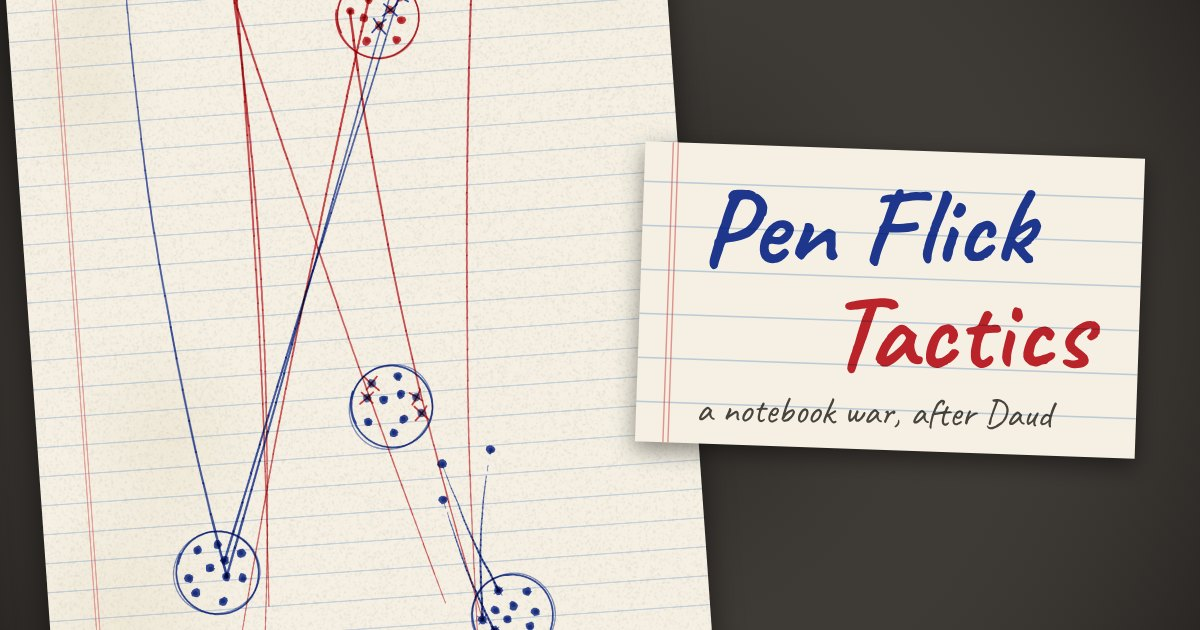
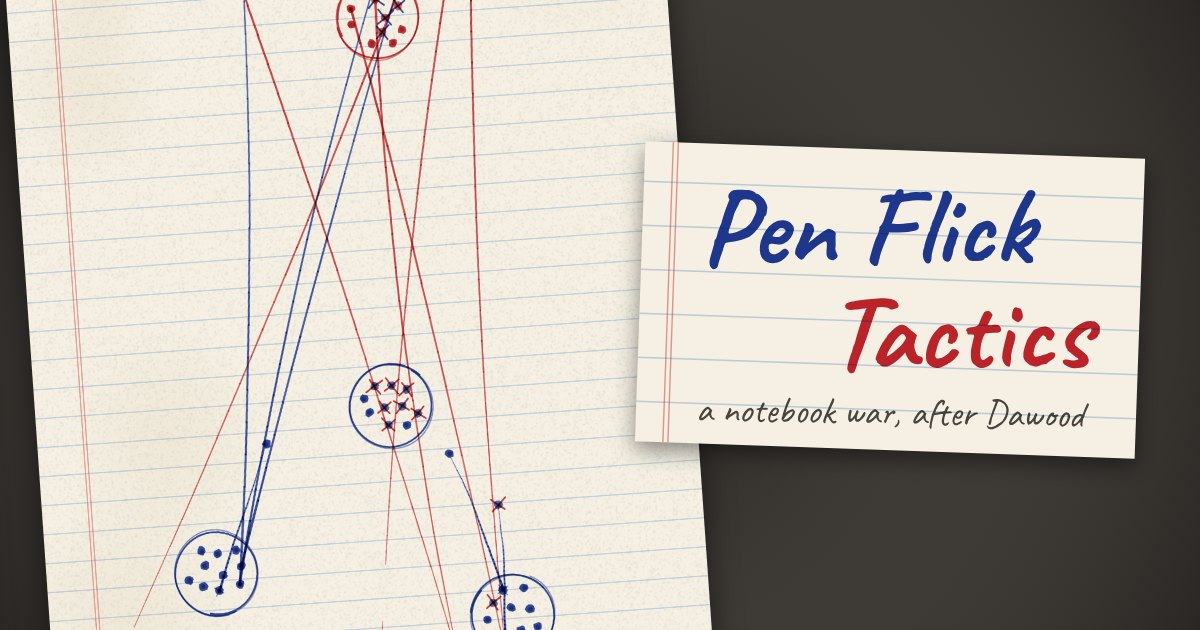
It's Dawood: fix the name everywhere, including the share card

Changed region(s): [[0.1233, 0.0, 0.4625, 1.0], [0.8633, 0.6333, 0.8942, 0.6937]]

diff --git a/src/main.ts b/src/main.ts
@@ -48,7 +48,7 @@ const cam = new Camera();
 let W = 0, H = 0, dpr = 1, dirty = true;
 
 const isBot = (p: Player) => mode.kind === "bot" && p === 1;
-const name = (p: Player) => (isBot(p) ? "Daud-bot" : INK.names[p]);
+const name = (p: Player) => (isBot(p) ? "Dawood-bot" : INK.names[p]);
 
 function save() {
   localStorage.setItem("pft:save", JSON.stringify({ s, mode } satisfies Save));
@@ -336,10 +336,10 @@ function showTitle() {
   const canResume = saved && (saved.s.phase !== "over");
   const card = sheet(`
     <h1>Pen Flick <em>Tactics</em></h1>
-    <p class="sub">a notebook war, after Daud</p>
+    <p class="sub">a notebook war, after Dawood</p>
     ${canResume ? `<button class="act" data-a="resume">↳ carry on the page</button>` : ""}
     <button class="act" data-a="pnp">↳ pass &amp; play</button>
-    <button class="act red" data-a="bot">↳ vs Daud-bot</button>
+    <button class="act red" data-a="bot">↳ vs Dawood-bot</button>
     <div class="row">${LEVELS.map((l, i) => `<button class="act small ${i === botLevel ? "on" : ""}" data-lvl="${i}">${l}</button>`).join(" · ")}</div>
     <button class="act small" data-a="how">how to play</button>
     <p class="fine">
@@ -347,7 +347,7 @@ function showTitle() {
       <button class="act small ${settings.handoff ? "on" : ""}" data-set="handoff">hand-off screen</button> ·
       <button class="act small ${!sfx.muted ? "on" : ""}" data-set="sound">sound</button>
     </p>
-    <p class="fine">rules from memory — waiting on Daud</p>`);
+    <p class="fine">rules from memory — waiting on Dawood</p>`);
   card.onclick = (e) => {
     const b = (e.target as HTMLElement).closest("button");
     if (!b) return;

diff --git a/src/rules.ts b/src/rules.ts
@@ -1,5 +1,5 @@
 // Every tunable rule lives here. Most are guesses from Burooj's memory of
-// Daud's game (2026-06-07 transcript); the ones marked ASK DAUD are open
+// Dawood's game (2026-06-07 transcript); the ones marked ASK DAWOOD are open
 // questions tracked in RULES.md / BJS-128. Change them here, not in logic.
 
 export const RULES = {
@@ -14,7 +14,7 @@ export const RULES = {
   baseRadius: 62,
   soldierRadius: 7,
   minBaseGap: 40, // clear paper between any two bases
-  minEnemyBaseGap: 180, // ASK DAUD: could you build right next to an enemy?
+  minEnemyBaseGap: 180, // ASK DAWOOD: could you build right next to an enemy?
 
   // Shoot: the soldier stays put, the line runs "almost to the end of the page".
   shootMinLen: 700,
@@ -23,13 +23,13 @@ export const RULES = {
   moveMinLen: 60,
   moveMaxLen: 380,
 
-  // ASK DAUD: did movement lines kill, or only shots? Transcript reads as both.
+  // ASK DAWOOD: did movement lines kill, or only shots? Transcript reads as both.
   moveKills: true,
-  // ASK DAUD: could you hit your own soldiers?
+  // ASK DAWOOD: could you hit your own soldiers?
   friendlyFire: false,
-  // ASK DAUD: did a shot stop at the first body? Default: a line is a line.
+  // ASK DAWOOD: did a shot stop at the first body? Default: a line is a line.
   shotPierces: true,
-  // ASK DAUD: what happened if your flick left the page? Default: soldier is lost.
+  // ASK DAWOOD: what happened if your flick left the page? Default: soldier is lost.
   offPageMoveKills: true,
 
   // How generous a hit is: ink line vs dot, in world units beyond both radii.

diff --git a/index.html b/index.html
@@ -7,7 +7,7 @@
     <meta name="apple-mobile-web-app-capable" content="yes" />
     <meta name="mobile-web-app-capable" content="yes" />
     <title>Pen Flick Tactics</title>
-    <meta name="description" content="Daud's pen-and-paper flick war, on a notebook page. Draw your bases, flick your pen, cross them out." />
+    <meta name="description" content="Dawood's pen-and-paper flick war, on a notebook page. Draw your bases, flick your pen, cross them out." />
     <link rel="icon" type="image/png" sizes="192x192" href="/icon-192.png" />
     <link rel="apple-touch-icon" href="/apple-touch-icon.png" />
     <link rel="manifest" href="/manifest.webmanifest" />
@@ -16,7 +16,7 @@
     <meta property="og:type" content="website" />
     <meta property="og:url" content="https://pen-flick-tactics.vercel.app/" />
     <meta property="og:title" content="Pen Flick Tactics" />
-    <meta property="og:description" content="Daud's pen-and-paper flick war, on a notebook page. Draw your bases, flick your pen, cross them out." />
+    <meta property="og:description" content="Dawood's pen-and-paper flick war, on a notebook page. Draw your bases, flick your pen, cross them out." />
     <meta property="og:image" content="https://pen-flick-tactics.vercel.app/og.jpg" />
     <meta property="og:image:width" content="1200" />
     <meta property="og:image:height" content="630" />

diff --git a/src/bot.ts b/src/bot.ts
@@ -1,4 +1,4 @@
-// Daud-bot: plans by previewing candidate flicks, then flicks with a human-ish hand.
+// Dawood-bot: plans by previewing candidate flicks, then flicks with a human-ish hand.
 
 import { alive, preview, type Flick, type GameState, rng } from "./game";
 import { reach, sigma } from "./flick";

diff --git a/README.md b/README.md
@@ -1,6 +1,6 @@
 # Pen Flick Tactics
 
-A digital version of Daud's pen-and-paper flick tactics game. The feel of imprecise pen flicks and the hand-drawn notebook aesthetic are core constraints. The canonical rules still need Daud's review; see [RULES.md](RULES.md) for what the prototype assumes and what to ask him.
+A digital version of Dawood's pen-and-paper flick tactics game. The feel of imprecise pen flicks and the hand-drawn notebook aesthetic are core constraints. The canonical rules still need Dawood's review; see [RULES.md](RULES.md) for what the prototype assumes and what to ask him.
 
 The Linear board is canonical for status, decisions, and work history.
 
@@ -15,7 +15,7 @@ npm run build    # static bundle in dist/
 npm run share-art -- http://localhost:5173/   # regenerate og.jpg + icons from a scripted game (needs the dev server and Chrome)
 ```
 
-On your turn, touch one of your soldiers or anywhere in one of your bases (the camera closes in), pull back from anywhere, and let go. Pick **move** or **shoot** at the bottom. Pinch to zoom; tap **page** to see the whole sheet. Pass & play shows a hand-off sheet between turns; Daud-bot plays red. A finished page can be saved as a PNG.
+On your turn, touch one of your soldiers or anywhere in one of your bases (the camera closes in), pull back from anywhere, and let go. Pick **move** or **shoot** at the bottom. Pinch to zoom; tap **page** to see the whole sheet. Pass & play shows a hand-off sheet between turns; Dawood-bot plays red. A finished page can be saved as a PNG.
 
 ## Shape
 
@@ -24,7 +24,7 @@ On your turn, touch one of your soldiers or anywhere in one of your bases (the c
 - `src/flick.ts`: turns a pull-back gesture into a flick, with wobble and release error
 - `src/ink.ts`: ballpoint and pencil drawing primitives (seeded, so the page redraws identically)
 - `src/view.ts`: camera and page rendering
-- `src/bot.ts`: Daud-bot
+- `src/bot.ts`: Dawood-bot
 - `src/main.ts`: input, turn flow, HUD and sheets
 - `src/sound.ts`: synthesised pen scratches and haptics
 - `src/timeline.ts`: when each mark is being drawn on (pure, tested)
@@ -40,7 +40,7 @@ An earlier [AI Studio build](https://aistudio.google.com/apps/d2c29067-ed8f-4b5e
 
 - [BJS-67 — Capture Pen Flick Tactics game seed](https://linear.app/bjs-projects/issue/BJS-67/capture-pen-flick-tactics-game-seed)
 - [BJS-127 — Import the AI Studio prototype as repo baseline](https://linear.app/bjs-projects/issue/BJS-127/import-the-pen-flick-tactics-ai-studio-prototype-as-the-repo-baseline)
-- [BJS-128 — Reconstruct the canonical ruleset with Daud](https://linear.app/bjs-projects/issue/BJS-128/reconstruct-the-canonical-ruleset-with-daud)
+- [BJS-128 — Reconstruct the canonical ruleset with Dawood](https://linear.app/bjs-projects/issue/BJS-128/reconstruct-the-canonical-ruleset-with-daud)
 - [BJS-129 — Scope true async / online multiplayer](https://linear.app/bjs-projects/issue/BJS-129/scope-and-design-true-async-online-multiplayer)
 - [BJS-131 — Mobile/touch flick feel, zoom, and limited perspective](https://linear.app/bjs-projects/issue/BJS-131/mobiletouch-flick-feel-with-zoom-and-limited-perspective)
 - [BJS-134 — Taste and polish the hand-drawn aesthetic](https://linear.app/bjs-projects/issue/BJS-134/taste-and-polish-pass-on-the-hand-drawn-aesthetic)

diff --git a/RULES.md b/RULES.md
@@ -1,6 +1,6 @@
-# Rules (from memory, pending Daud)
+# Rules (from memory, pending Dawood)
 
-The source is Burooj's description of Daud's pen-and-paper game (ChatGPT, 2026-06-07, "Flick-line strategy game"). Nothing here is canonical until Daud reviews it ([BJS-128](https://linear.app/bjs-projects/issue/BJS-128/reconstruct-the-canonical-ruleset-with-daud)). Every value below is in `src/rules.ts`.
+The source is Burooj's description of Dawood's pen-and-paper game (ChatGPT, 2026-06-07, "Flick-line strategy game"). Nothing here is canonical until Dawood reviews it ([BJS-128](https://linear.app/bjs-projects/issue/BJS-128/reconstruct-the-canonical-ruleset-with-daud)). Every value below is in `src/rules.ts`.
 
 ## What the prototype plays
 
@@ -21,7 +21,7 @@ The source is Burooj's description of Daud's pen-and-paper game (ChatGPT, 2026-0
 - The flick: the pen balanced on the page, flicked with the other hand. You can't just draw a line.
 - A cross in the enemy's colour means killed. A cross in your own colour means moved.
 
-## Guesses the prototype had to make (ask Daud)
+## Guesses the prototype had to make (ask Dawood)
 
 | Question | Prototype default | `rules.ts` |
 |---|---|---|
@@ -42,4 +42,4 @@ The source is Burooj's description of Daud's pen-and-paper game (ChatGPT, 2026-0
 
 - A slight hidden angle error on release and a visible tremble if you hold a hard flick. These stand in for the physical unreliability of a real flick.
 - Close-up aim: the camera zooms onto your soldier while you aim, so you can't see the whole page. This is the "limited perspective" idea from the seed.
-- Daud-bot, a computer opponent.
+- Dawood-bot, a computer opponent.
